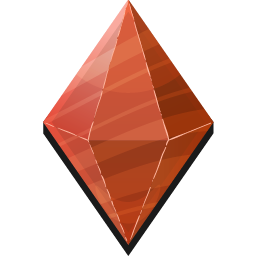
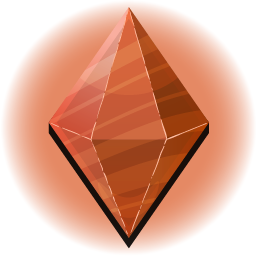
se añadieron elipse difuminada para los diamantes

diff --git a/public_html/src/Game/Util/SceneFileParser.js b/public_html/src/Game/Util/SceneFileParser.js
@@ -144,6 +144,7 @@ SceneFileParser.prototype.parseBackgrounds = function (textures, normals, lightS
             }
         }
 
+        console.log(lights);
         background = new ParallaxGameObject(background, parallaxScale, camera);
 
         if (receiveShadow === "true") {

diff --git a/public_html/src/Game/Game.js b/public_html/src/Game/Game.js
@@ -449,6 +449,8 @@ Game.prototype.colCharacterDiamond = function (mWaterCharacter, mFireCharacter) 
             character.incrementScore();
             this.mAllDiamons.removeFromSet(diamond);
         }
+
+        
     }
 };
 
